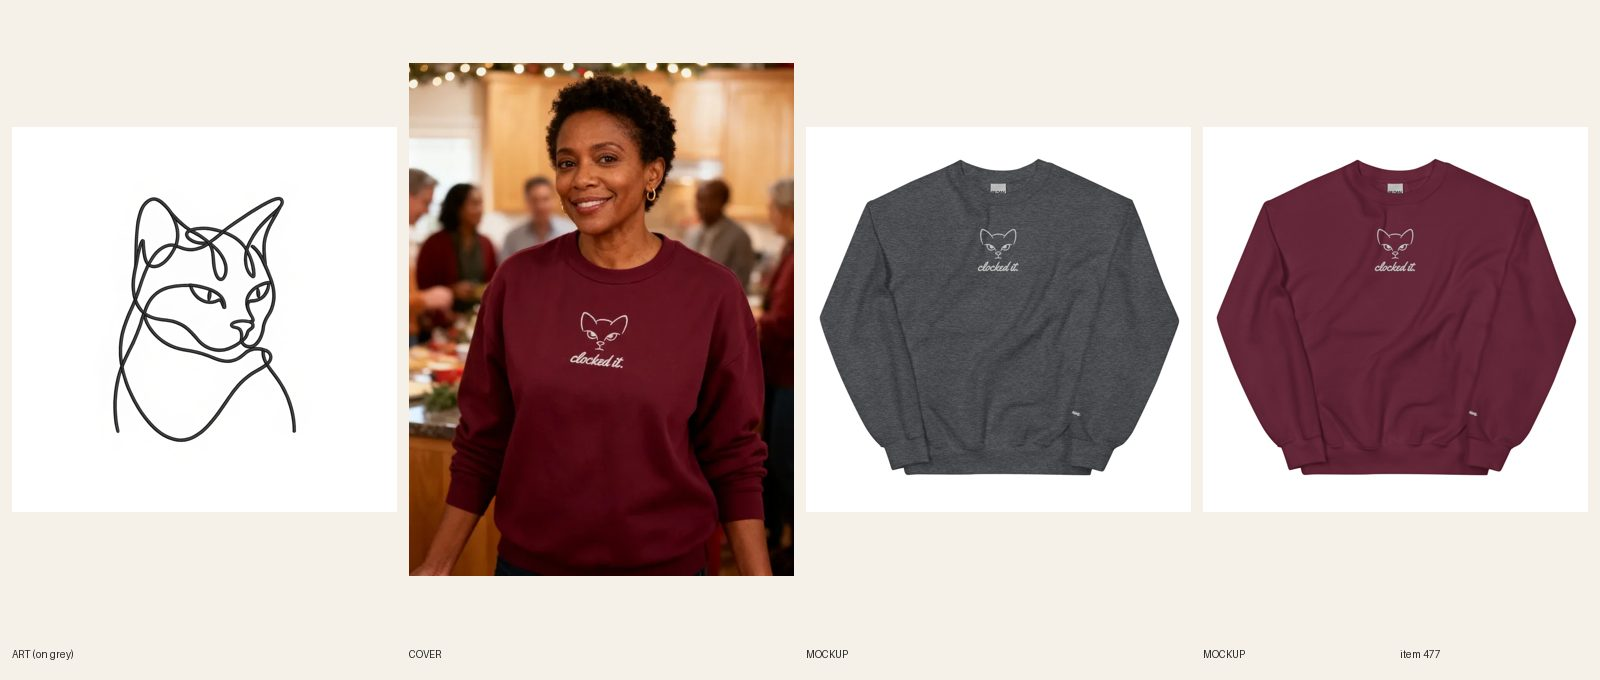
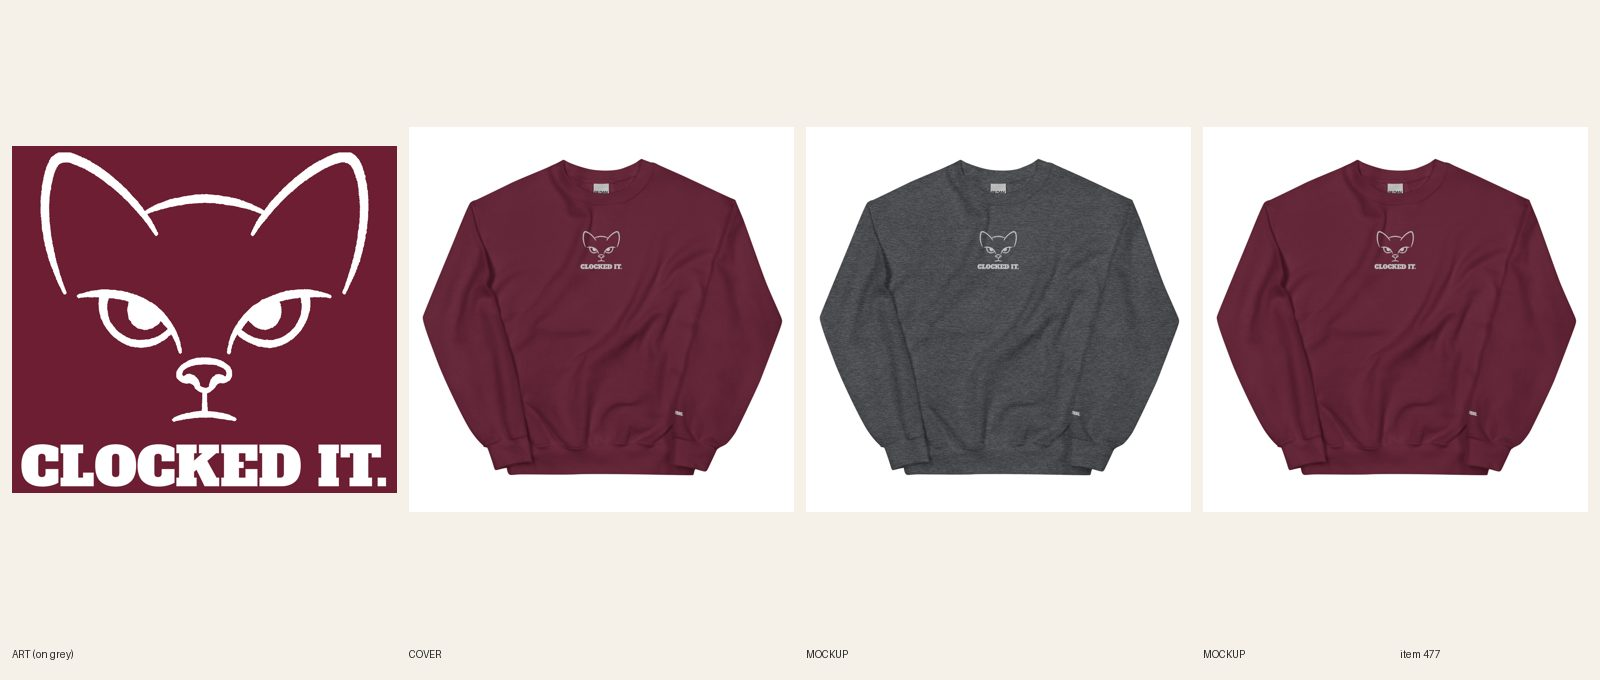
[A] review 477 Clocked It embroidered crewneck (type redo)

Changed region(s): [[0.0, 0.0926, 0.5, 0.8647], [0.5938, 0.3397, 0.6562, 0.4015], [0.8438, 0.3397, 0.9062, 0.4015]]

diff --git a/docs/pipeline/477-clocked-it-embroidered-crewneck.md b/docs/pipeline/477-clocked-it-embroidered-crewneck.md
@@ -1,4 +1,4 @@
-status: BUILDING [A] 2026-10-19 21:59
+status: REVIEW
 shopify: gid://shopify/Product/15363964698928
 lane: A
 type: new
@@ -26,3 +26,4 @@ kd: 20
 - 2026-10-17 18:07 UTC builder [A]: REVIEW. Price corrected to $42.99 (R12.1: crewneck 34.99 + 5 chest + 3 cuff; audit-confirmed). Printful sync pid 482540996, 17/17 synced; chest file 1088382999 + cuff 1088383013, white thread, flat. Mockups Dark Heather, Military Green, Maroon + back logo attached, every variant linked to its color. FAQ 6 x 48-52 words incl. Dec 8 order-by. Cover registry #683 (try 1 of 2, 1 fal image, ~$0.04): reads 'clocked it.', no overlap; cuff not visible in cover. Audit passes except not-active. Sheet docs/review/477.jpg. Shopify gid 15363964698928; design-crops and variant-photos pick this up once ACTIVE (script covers published only).
 - 2026-10-17 18:14 UTC director: LIVE. Sheet seen: line cat + 'clocked it.' reads on all three colors, chest piece at the 3.83 in max (R4.8), cover = woman 40s in a holiday kitchen, print clean. Copy fix in place: SEO title and line one used 'embroidered cat sweatshirt' (owned by Purrsonal Space, R2.8), now 'cat sweatshirt for women' (its claimed phrase); lowercase 'clocked it.' to match the art. ACTIVE + Online Store, Headless, Google & YouTube; audit PASS (0 warn). Words in real fonts and the plain line style are Sam's approved final art (R1.1 overrides R3.7.6 for #477-#483).
 - 2026-10-18 17:22 UTC director: QUALITY RESET grade B (type only), REDO. The product stays ACTIVE (same handle, URL, title keyword). Keep the line "clocked it." and the art. 1. Type: line works; "clocked it." is a thin script, the cat outline is the loudest thing. 2. Quality reset type bar (docs/backlog/quality-reset.md, 'The new bar'): headline at least 90% of the art width, heavy, colors pulled from the art; second line at least 45% of the headline's height, never a thin script on a dark or mid garment; use the lettering as a shape (arch, stacked lockup, words breaking into the art), not a plain bar above and a script line below; no font used on more than 1 in 6 of the last 30 designs. 3. New print file means a new cover per R6.10 and a fresh review sheet (R7.7). While quality-reset.md says PAUSED, only lane A builds, and only the samples step 2 names.
+- 2026-10-19 22:06 UTC builder [A] type redo (B): new chest file 1089951111 (cat unchanged + CLOCKED IT. in Alfa Slab One at 99% of cat width, stroke 28 px) and cuff file 1089951131 (SAID NOTHING. Anton, 0.31 in tall, stroke 18 px = 1.5 mm), white thread, flat; 17/17 resynced; 3 fronts + back replaced in place, alts and copy updated, plain product shot (handle added to retired-covers.json; also fixed a missing comma that broke that JSON on main). Audit PASS 0 warn, astro build ok. fal $0. Sheet docs/review/477.jpg. White thread on dark colors only, no light-blank issue.

diff --git a/docs/intake-log.md b/docs/intake-log.md
@@ -1,4 +1,4 @@
-RUNNING lane A since 2026-10-19 21:59 UTC
+2026-10-19 22:06 UTC — [A] Builder run: redid #477 Women's Clocked It embroidered crewneck (type only: cat kept, heavy slab CLOCKED IT. at full cat width, SAID NOTHING. block letters on the cuff, white thread, 17/17 resynced, 4 images replaced in place, copy updated, plain product shot; fixed broken retired-covers.json comma). REVIEW. fal $0. Lock released.
 RUNNING lane C since 2026-10-19 21:54 UTC
 2026-10-19 21:43 UTC — [H] Helper run: Telegram inbox empty (getUpdates returned 0 updates; no pause, resume or TikTok links; nothing to consume). Audit (605 products): 0 errors, 30 warnings left alone (polish); no meta, SEO, collection or price errors to fix; announcement bar unchanged. Category check: 0 products without a category (Shopify query empty, no mutation). Site freshness: womens-clocked-it-said-nothing-graphic-tee, womens-mimi-says-yes-crewneck-sweatshirt, womens-gigi-because-grandma-sounded-old-crewneck-sweatshirt all 200. Stuck work: none (#632 BUILDING but claimed by lane E at 21:31 UTC; lane E lock 21:14 under 2 hours). Daily summary not due (sent 16:05 today). Lock released.
 2026-10-19 21:37 UTC — [A] Builder run: redid #474 Women's Feed Store Fashion Week hoodie (type only: Rye FEED STORE + Alfa Slab FASHION WEEK full width + heavy SATURDAY, 7 A.M., same art, FW 1500 TOP 0, Sand file 1089919414 / Navy file 1089919452, 12/12 relinked, 6 mockups replaced in place, copy updated, plain product shot). REVIEW. fal $0. Lock released.
